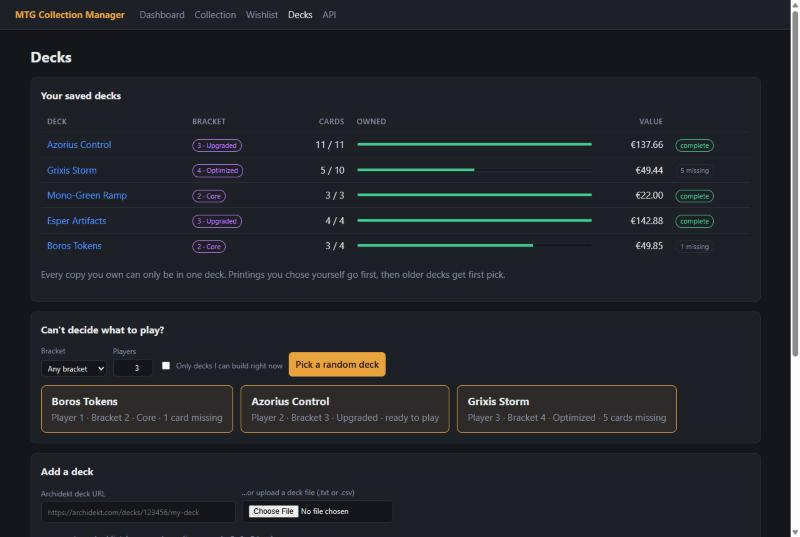
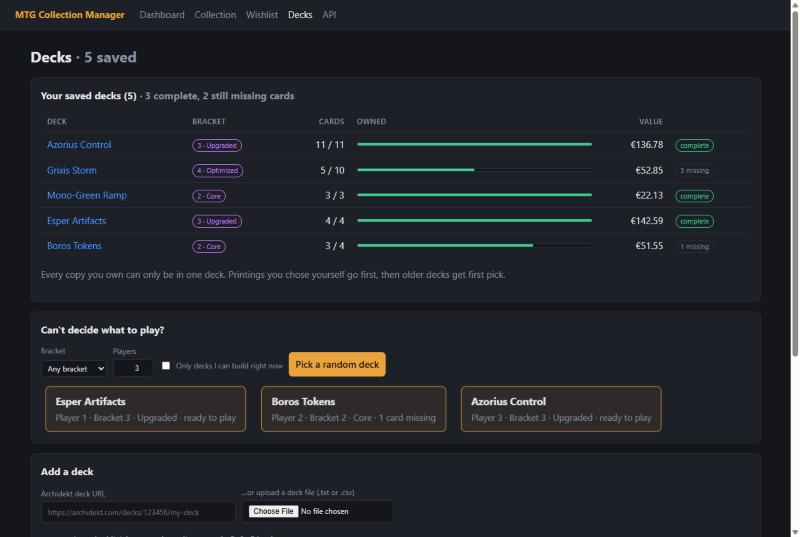
Show how many decks are saved
The decks page shows the number of saved decks in its title, and how
many of them are complete or still missing cards above the list.

Update the decks screenshot in the README.

diff --git a/app/templates/deck.html b/app/templates/deck.html
@@ -56,11 +56,12 @@
   </div>
 </div>
 {% else %}
-<h1>Decks</h1>
+<h1>Decks <span class="muted">· {{ summaries | length }} saved</span></h1>
 
 {% if summaries %}
 <div class="panel table-wrap">
-  <h2>Your saved decks</h2>
+  {% set complete = summaries | selectattr('complete') | list | length %}
+  <h2>Your saved decks ({{ summaries | length }}) <span class="muted">· {{ complete }} complete, {{ summaries | length - complete }} still missing cards</span></h2>
   <table>
     <tr><th>Deck</th><th>Bracket</th><th class="num">Cards</th><th>Owned</th><th class="num">Value</th><th></th></tr>
     {% for s in summaries %}

diff --git a/tests/test_decks.py b/tests/test_decks.py
@@ -595,3 +595,13 @@ def test_put_back_is_offered_even_when_another_deck_took_the_copy(client):
     client.post(f"/decks/{first['id']}/save", data={"assign": str(entry)})
     assert client.get(f"/api/decks/{first['id']}").json()["complete"] is True  # the older deck has it back
     assert client.get(f"/api/decks/{second['id']}").json()["complete"] is False
+
+
+def test_decks_page_shows_how_many_decks_there_are(client):
+    assert "· 0 saved" in client.get("/deck").text
+    client.post("/api/collection", json={"name": "Sol Ring"})
+    client.post("/api/decks", json={"name": "Ramp", "decklist": "1 Sol Ring"})
+    client.post("/api/decks", json={"name": "Burn", "decklist": "4 Fire // Ice"})
+    page = client.get("/deck").text
+    assert "· 2 saved" in page and "Your saved decks (2)" in page
+    assert "1 complete, 1 still missing cards" in page

diff --git a/README.md b/README.md
@@ -17,7 +17,7 @@ price.
 
 | Collection: add by name or card number, edit quantities | Saved decks, and the randomizer picking a deck for three players |
 | --- | --- |
-| ![Collection](docs/collection.jpg) | ![Saved decks with bracket, progress and value, and a random deck for each of three players](docs/decks.jpg) |
+| ![Collection](docs/collection.jpg) | ![Saved decks with their number, bracket, progress and value, and a random deck for each of three players](docs/decks.jpg) |
 
 ![Wishlist targets set to 85% of the current price: the changed prices are highlighted until you save them all](docs/wishlist-targets.jpg)
 
